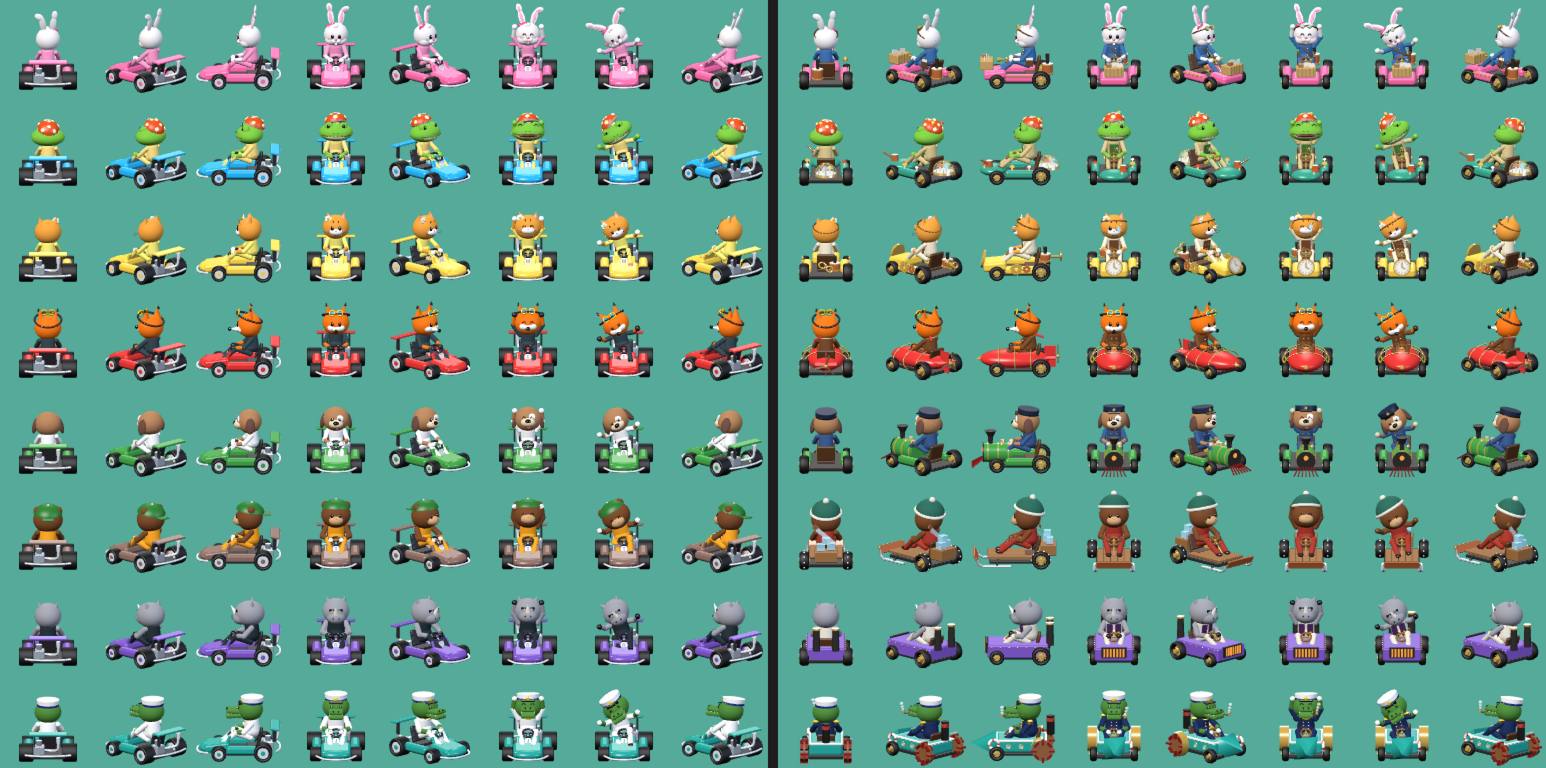
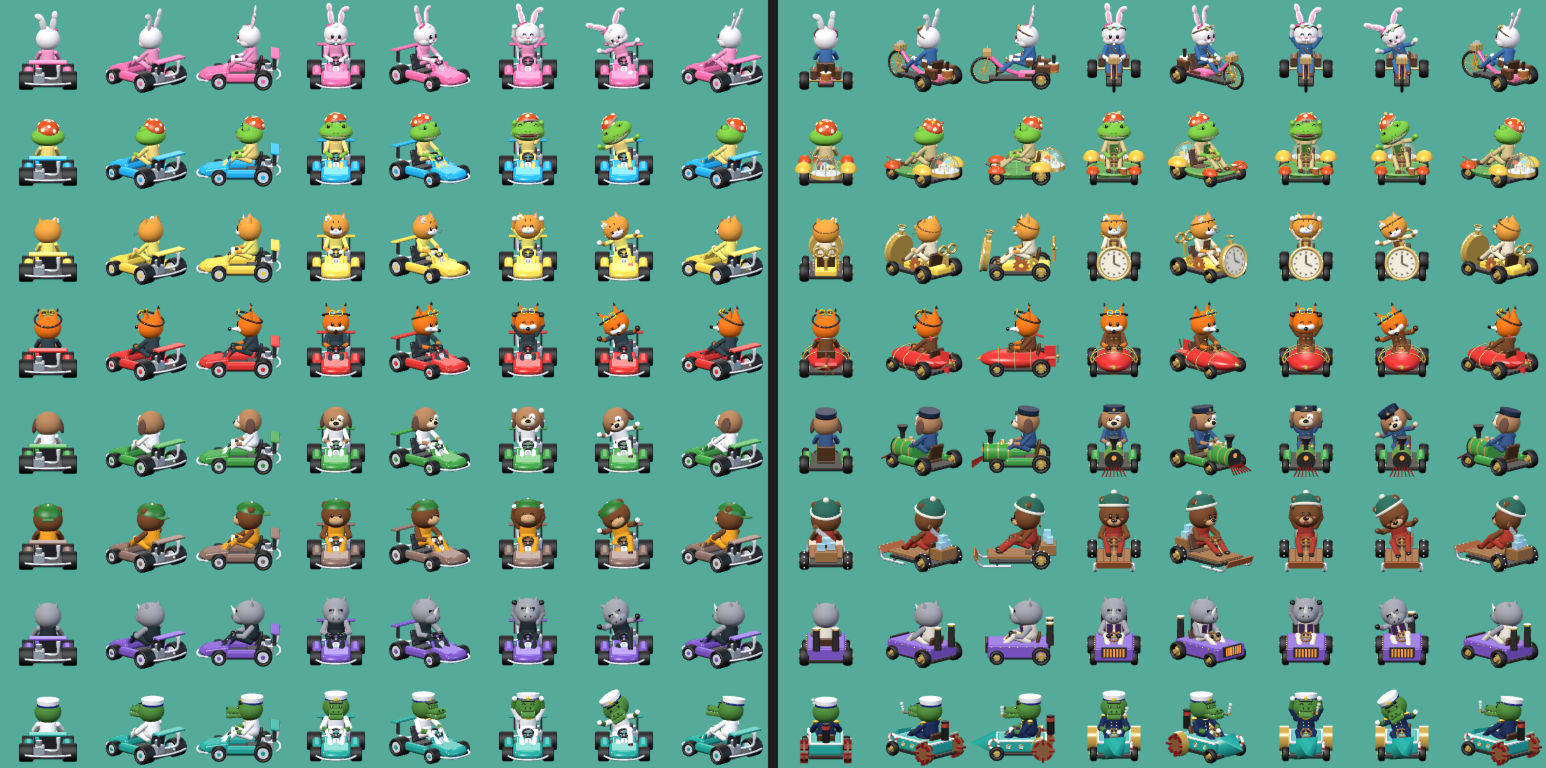
Karts da Pipoca, Tico e Mel com formatos próprios; rosto novo do Tonho
Claude-Session: https://claude.ai/code/session_014Nx7Q9PwZ2QKZdGMey8Nsp

diff --git a/js/drivers3d.js b/js/drivers3d.js
@@ -305,14 +305,33 @@ function buildHead(b, d, expr) {
     }
     case 'tonho': { // urso
       R = 0.43;
-      b.sphere(h, R, fur, [0, 0, 0], [1.08, 0.96, 0.96]);
-      for (const s of [1, -1]) { b.sphere(h, 0.13, fur, [s * 0.32, 0.3, -0.04]); b.sphere(h, 0.07, b.fur(0xd7a979), [s * 0.32, 0.3, 0.03], [1, 1, 0.5]); }
-      b.sphere(h, 0.2, b.fur(0xd7a979), surf(R * 0.8, 0, -0.28), [1.15, 0.8, 0.95]);
-      b.sphere(h, 0.075, b.plastic(0x111111, 100), surf(R * 1.02, 0, -0.14), [1.4, 0.9, 1]);
-      eyes(b, h, R, ex({ pitch: 0.12, size: 0.066 }));
-      mouth(b, h, R, ex({ pitch: -0.4, w: 0.08 }));
+      b.sphere(h, R, fur, [0, 0, 0], [1.1, 0.95, 0.95]);
+      // orelhas redondas saindo por cima do gorro
+      for (const s of [1, -1]) { b.sphere(h, 0.12, fur, [s * 0.34, 0.47, -0.04], [1, 1, 0.75]); b.sphere(h, 0.065, b.fur(0xd7a979), [s * 0.34, 0.47, 0.045], [1, 1, 0.4]); }
+      // focinho claro e arredondado, mais baixo, com nariz grande de urso em cima e boquinha embaixo
+      const tan = b.fur(0xd7a979);
+      const mz = [0, -0.14, 0.33];
+      b.sphere(h, 0.17, tan, mz, [1.25, 0.82, 0.9]);
+      b.sphere(h, 0.07, b.plastic(0x2a1a14, 110), [0, mz[1] + 0.07, mz[2] + 0.14], [1.35, 0.85, 0.9]);
+      b.sphere(h, 0.018, b.plastic(0xffffff, 10), [0.03, mz[1] + 0.105, mz[2] + 0.19], [1.4, 0.8, 0.5]);
+      b.add(h, new THREE.BoxGeometry(0.012, 0.05, 0.01), b.plastic(0x2a1a14), [0, mz[1] + 0.0, mz[2] + 0.165]);
+      if (expr === 'happy') {
+        b.sphere(h, 0.06, b.plastic(0x7a1a1a, 20), [0, mz[1] - 0.05, mz[2] + 0.13], [1.4, 0.8, 0.5]);
+        b.sphere(h, 0.035, b.plastic(0xff6f80, 20), [0, mz[1] - 0.07, mz[2] + 0.145], [1.3, 0.6, 0.4]);
+      } else if (expr === 'dizzy') {
+        b.add(h, new THREE.TorusGeometry(0.025, 0.008, 6, 12), b.plastic(0x2a1a14), [0, mz[1] - 0.06, mz[2] + 0.145]);
+      } else {
+        for (const sd of [1, -1]) b.add(h, new THREE.TorusGeometry(0.03, 0.008, 6, 12, Math.PI), b.plastic(0x2a1a14), [sd * 0.03, mz[1] - 0.03, mz[2] + 0.14], [0, 0, Math.PI]);
+      }
+      // olhos mais próximos e mais baixos, com sobrancelhas grossas e simpáticas
+      eyes(b, h, R, ex({ yaw: 0.25, pitch: 0.06, size: 0.07 }));
+      if (expr !== 'dizzy') for (const sd of [1, -1]) {
+        const br = b.add(h, new THREE.CapsuleGeometry(0.018, 0.07, 4, 8), b.fur(0x4a2a14), surf(R * 1.0, sd * 0.25, 0.27));
+        br.rotation.set(0.25, 0, Math.PI / 2 - sd * (expr === 'happy' ? 0.3 : 0.12));
+      }
+      cheeks(b, h, R * 1.05, 0xd9806a);
       // gorro de tricô com barra dobrada e pompom
-      const cap = new THREE.Group(); cap.position.set(0, 0.22, -0.05); cap.rotation.x = -0.25; h.add(cap);
+      const cap = new THREE.Group(); cap.position.set(0, 0.25, -0.06); cap.rotation.x = -0.28; h.add(cap);
       b.add(cap, new THREE.SphereGeometry(0.44, 28, 12, 0, Math.PI * 2, 0, Math.PI / 2), b.fur(L.cap), [0, 0, 0], [0, 0, 0], [1.06, 0.95, 1.06]);
       b.add(cap, new THREE.TorusGeometry(0.43, 0.055, 8, 28), b.fur(0xe8e0d0), [0, 0.02, 0], [Math.PI / 2, 0, 0], [1.06, 1.06, 1]);
       b.sphere(cap, 0.1, b.fur(0xe8e0d0), [0, 0.43, 0]);
@@ -393,11 +412,11 @@ function buildKart(b, d, root, steerAng) {
   const iron = b.plastic(0x2e2a28, 30), brass = b.metal(0xc9a24a), copper = b.metal(0xb8673a), wood = b.plastic(0x8a5a34, 15);
   const leather = b.plastic(0x5a3a22, 20), glow = b.mat('glow', () => new THREE.MeshBasicMaterial({ color: 0xffa040 }));
   const id = d.id;
-  b.rbox(root, 1.1, 0.1, 1.9, 0.04, iron, [0, 0.19, -0.05]);                              // chassi
+  b.rbox(root, id === 'pipoca' ? 0.5 : 1.1, 0.1, 1.9, 0.04, iron, [0, 0.19, -0.05]);       // chassi
   b.rbox(root, 0.56, 0.5, 0.1, 0.05, leather, [0, 0.62, -0.62], [-0.25, 0, 0]);           // banco
   b.rbox(root, 0.56, 0.08, 0.42, 0.03, leather, [0, 0.33, -0.42]);
   // volante de madeira com raios de latão
-  b.limb(root, V(0, 0.42, 0.55), V(0, 0.74, 0.26), 0.025, brass);
+  if (id !== 'pipoca') b.limb(root, V(0, 0.42, 0.55), V(0, 0.74, 0.26), 0.025, brass);
   const wheel = new THREE.Group(); wheel.position.set(0, 0.78, 0.22); wheel.rotation.x = -1.0; root.add(wheel);
   const wr = new THREE.Group(); wr.rotation.z = steerAng; wheel.add(wr);
   b.add(wr, new THREE.TorusGeometry(0.17, 0.03, 8, 24), wood);
@@ -412,7 +431,7 @@ function buildKart(b, d, root, steerAng) {
     for (let k = 0; k < 6; k++) b.add(piv, new THREE.BoxGeometry(0.03, (r - 0.08) * 2, 0.03), brass, [0, 0, 0], [(k / 6) * Math.PI, 0, 0]);
     if (id === 'tonho' && !front) for (let k = 0; k < 10; k++) { const a = (k / 10) * Math.PI * 2; b.sphere(piv, 0.03, b.metal(), [0, Math.sin(a) * r, Math.cos(a) * r]); } // pneus com cravos
   };
-  if (id !== 'tonho') for (const s of [1, -1]) wheelAt(s * 0.64, 0.66, 0.23, 0.22, 1);
+  if (id !== 'tonho' && id !== 'pipoca') for (const s of [1, -1]) wheelAt(s * 0.64, 0.66, 0.23, 0.22, 1);
   if (id !== 'juca') for (const s of [1, -1]) wheelAt(s * 0.68, -0.72, 0.29, 0.3, 0);
   const boiler = (x, z, h = 0.34, chim = 0.32) => {
     b.add(root, new THREE.CylinderGeometry(0.17, 0.17, h, 14), copper, [x, 0.38 + h / 2, z]);
@@ -422,54 +441,72 @@ function buildKart(b, d, root, steerAng) {
   const pontoons = (mat) => { for (const s of [1, -1]) b.rbox(root, 0.26, 0.24, 1.0, 0.09, mat, [s * 0.58, 0.33, -0.1]); };
 
   switch (id) {
-    case 'pipoca': { // carrinho do correio a vapor: cesto de vime com cartas e campainha
-      pontoons(paint);
-      b.rbox(root, 0.86, 0.26, 0.7, 0.1, paint, [0, 0.36, 0.72], [0.1, 0, 0]);
-      for (const s of [1, -1]) b.rbox(root, 0.03, 0.05, 1.0, 0.01, brass, [s * 0.715, 0.42, -0.1]);
+    case 'pipoca': { // velocípede do correio: roda dianteira gigante, quadro de latão e alforjes de cartas
+      const fw = new THREE.Group(); fw.position.set(0, 0.44, 1.04); fw.rotation.y = steerAng * 0.5; root.add(fw);
+      b.add(fw, new THREE.TorusGeometry(0.4, 0.045, 8, 28), tire, [0, 0, 0], [0, Math.PI / 2, 0]);
+      b.add(fw, new THREE.TorusGeometry(0.36, 0.015, 6, 28), brass, [0, 0, 0], [0, Math.PI / 2, 0]);
+      for (let k = 0; k < 8; k++) b.add(fw, new THREE.BoxGeometry(0.015, 0.72, 0.015), brass, [0, 0, 0], [(k / 8) * Math.PI, 0, 0]);
+      b.add(fw, new THREE.CylinderGeometry(0.06, 0.06, 0.16, 12), brass, [0, 0, 0], [0, 0, Math.PI / 2]);
+      for (const sd of [1, -1]) b.limb(fw, V(sd * 0.09, 0, 0), V(sd * 0.09, 0.5, -0.12), 0.022, brass);  // garfo
+      // cesto pequeno em cima da roda, com cartas
       const wicker = b.plastic(0xc8a060, 10);
-      b.rbox(root, 0.62, 0.3, 0.42, 0.04, wicker, [0, 0.66, 0.98]);
-      for (let k = -2; k <= 2; k++) b.add(root, new THREE.BoxGeometry(0.02, 0.3, 0.43), b.plastic(0x9a7a40, 10), [k * 0.12, 0.66, 0.98]);
-      for (const [x, z, r] of [[-0.12, 0.98, 0.1], [0.06, 0.92, -0.15], [0.18, 1.04, 0.2]]) b.rbox(root, 0.2, 0.14, 0.02, 0.005, b.plastic(0xf8f4ea, 10), [x, 0.86, z], [0, 0, r]);
-      b.rbox(root, 0.16, 0.12, 0.14, 0.02, b.plastic(0xa8784a, 10), [-0.16, 0.86, 1.05]);
-      b.sphere(root, 0.05, brass, [0.16, 0.86, 0.36], [1, 0.6, 1]);                      // campainha
-      b.add(root, new THREE.ConeGeometry(0.08, 0.3, 12, 1, true), brass, [-0.6, 0.62, 0.5], [-Math.PI / 2, 0, 0]); // buzina
-      boiler(0.26, -0.92);
+      b.rbox(root, 0.36, 0.2, 0.28, 0.03, wicker, [0, 1.0, 0.96]);
+      for (let k = -1; k <= 1; k++) b.add(root, new THREE.BoxGeometry(0.015, 0.2, 0.29), b.plastic(0x9a7a40, 10), [k * 0.12, 1.0, 0.96]);
+      for (const [x, r] of [[-0.06, 0.15], [0.07, -0.2]]) b.rbox(root, 0.16, 0.12, 0.015, 0.005, b.plastic(0xf8f4ea, 10), [x, 1.14, 0.96], [0, 0, r]);
+      // quadro fino pintado ligando a roda ao banco
+      b.tube(root, [V(0, 0.9, 0.9), V(0, 0.5, 0.45), V(0, 0.32, -0.1), V(0, 0.36, -0.8)], 0.07, paint);
+      b.rbox(root, 0.42, 0.2, 0.9, 0.08, paint, [0, 0.3, -0.45]);
+      for (const sd of [1, -1]) {
+        b.rbox(root, 0.2, 0.3, 0.42, 0.05, leather, [sd * 0.38, 0.52, -0.8]);                   // alforjes de cartas
+        b.rbox(root, 0.21, 0.08, 0.43, 0.03, b.plastic(0x7a4a2a, 20), [sd * 0.38, 0.66, -0.8]);
+        b.rbox(root, 0.015, 0.12, 0.18, 0.005, b.plastic(0xf8f4ea, 10), [sd * 0.38, 0.72, -0.72], [0, 0, sd * 0.15]);
+      }
+      b.sphere(root, 0.05, brass, [0.16, 0.86, 0.36], [1, 0.6, 1]);                             // campainha
+      b.add(root, new THREE.CylinderGeometry(0.035, 0.035, 1.3, 8), brass, [0, 0.29, -0.72], [0, 0, Math.PI / 2]);  // eixo traseiro
+      boiler(0, -1.12, 0.28, 0.26);
       break;
     }
-    case 'tico': { // estufa sobre rodas: redoma de vidro com cogumelos que brilham
-      pontoons(paint);
-      b.sphere(root, 0.46, paint, [0, 0.34, 0.78], [1, 0.4, 0.9]);
-      for (const [x, z, c, r] of [[0.58, 0.18, 0xffc84a, 0.08], [-0.58, 0.05, 0xe8541e, 0.07], [0.58, -0.35, 0xffffff, 0.06], [0.25, 1.05, 0xe8541e, 0.07]]) {
-        b.add(root, new THREE.CylinderGeometry(0.025, 0.03, 0.12, 8), b.fur(0xf3e5c0), [x, 0.5, z]);
-        b.add(root, new THREE.SphereGeometry(r, 12, 8, 0, Math.PI * 2, 0, Math.PI / 2), b.mat('gl' + c, () => new THREE.MeshBasicMaterial({ color: c })), [x, 0.55, z]);
+    case 'tico': { // vitória-régia sobre rodas: folha redonda, para-lamas de cogumelo e uma estufa grande atrás
+      const leaf = b.plastic(0x4f9a4a, 20);
+      b.add(root, new THREE.CylinderGeometry(0.82, 0.78, 0.1, 32, 1, false, 0.25, Math.PI * 2 - 0.5), leaf, [0, 0.3, 0.05]);
+      b.add(root, new THREE.TorusGeometry(0.8, 0.05, 6, 32, Math.PI * 2 - 0.5), b.plastic(0x7aba5a, 20), [0, 0.36, 0.05], [Math.PI / 2, 0, 0.25]);
+      for (let k = 0; k < 8; k++) b.add(root, new THREE.BoxGeometry(0.02, 0.012, 0.7), b.plastic(0x7aba5a, 20), [Math.sin((k / 8) * 6.28) * 0.38, 0.36, 0.05 + Math.cos((k / 8) * 6.28) * 0.38], [0, (k / 8) * 6.28, 0]);
+      // para-lamas: chapéus de cogumelo pintados sobre as quatro rodas
+      for (const [x, z, r, c] of [[0.66, 0.66, 0.28, 0xe8541e], [-0.66, 0.66, 0.28, 0xe8541e], [0.7, -0.72, 0.36, 0xffc84a], [-0.7, -0.72, 0.36, 0xffc84a]]) {
+        b.add(root, new THREE.SphereGeometry(r, 18, 10, 0, Math.PI * 2, 0, Math.PI / 2), b.plastic(c, 40), [x, r + 0.12, z], [0, 0, 0], [0.75, 0.75, 1]);
+        for (const [yy, zz] of [[0.6, 0.4], [0.75, -0.3], [0.3, 0.75]]) b.sphere(root, r * 0.16, b.plastic(0xfff3c4, 30), [x + Math.sign(x) * r * 0.5 * 0.75 * Math.cos(yy), r + 0.12 + r * 0.75 * Math.sin(yy), z + zz * r * 0.6], [1, 1, 0.5]);
       }
-      // redoma de estufa atrás do banco
-      b.add(root, new THREE.CylinderGeometry(0.32, 0.34, 0.08, 18), brass, [0, 0.42, -0.95]);
-      for (const [x, z, c] of [[0.1, -0.9, 0xe8541e], [-0.12, -1.0, 0xffc84a], [0.02, -1.08, 0x8ad8ff]]) {
-        b.add(root, new THREE.CylinderGeometry(0.03, 0.035, 0.18, 8), b.fur(0xf3e5c0), [x, 0.54, z]);
-        b.add(root, new THREE.SphereGeometry(0.09, 12, 8, 0, Math.PI * 2, 0, Math.PI / 2), b.mat('gl' + c, () => new THREE.MeshBasicMaterial({ color: c })), [x, 0.62, z]);
+      // estufa grande atrás do banco
+      b.add(root, new THREE.CylinderGeometry(0.46, 0.48, 0.12, 20), brass, [0, 0.42, -1.0]);
+      for (const [x, z, c, hh] of [[0.15, -0.92, 0xe8541e, 0.24], [-0.17, -1.05, 0xffc84a, 0.18], [0.04, -1.18, 0x8ad8ff, 0.3], [-0.05, -0.85, 0xffffff, 0.14]]) {
+        b.add(root, new THREE.CylinderGeometry(0.03, 0.04, hh, 8), b.fur(0xf3e5c0), [x, 0.48 + hh / 2, z]);
+        b.add(root, new THREE.SphereGeometry(0.1, 12, 8, 0, Math.PI * 2, 0, Math.PI / 2), b.mat('gl' + c, () => new THREE.MeshBasicMaterial({ color: c })), [x, 0.48 + hh, z]);
       }
-      b.add(root, new THREE.SphereGeometry(0.33, 18, 12, 0, Math.PI * 2, 0, Math.PI / 2), b.mat('glass', () => new THREE.MeshPhongMaterial({ color: 0xcfefff, transparent: true, opacity: 0.35, shininess: 150, specular: 0xffffff })), [0, 0.45, -0.95]);
-      for (let k = 0; k < 4; k++) b.add(root, new THREE.TorusGeometry(0.33, 0.012, 4, 18, Math.PI), brass, [0, 0.45, -0.95], [0, (k / 4) * Math.PI, 0]);
+      b.add(root, new THREE.SphereGeometry(0.46, 20, 14, 0, Math.PI * 2, 0, Math.PI / 2), b.mat('glass', () => new THREE.MeshPhongMaterial({ color: 0xcfefff, transparent: true, opacity: 0.32, shininess: 150, specular: 0xffffff })), [0, 0.48, -1.0], [0, 0, 0], [1, 1.15, 1]);
+      for (let k = 0; k < 4; k++) b.add(root, new THREE.TorusGeometry(0.46, 0.012, 4, 20, Math.PI), brass, [0, 0.48, -1.0], [0, (k / 4) * Math.PI, 0], [1, 1.15, 1]);
+      b.sphere(root, 0.05, brass, [0, 1.02, -1.0]);
       // regador de cobre na frente
-      b.add(root, new THREE.CylinderGeometry(0.1, 0.12, 0.2, 12), copper, [0.3, 0.6, 0.9]);
-      b.limb(root, V(0.38, 0.62, 0.95), V(0.55, 0.78, 1.15), 0.025, copper);
+      b.add(root, new THREE.CylinderGeometry(0.1, 0.12, 0.2, 12), copper, [0.3, 0.46, 0.75]);
+      b.limb(root, V(0.38, 0.5, 0.8), V(0.52, 0.66, 1.0), 0.025, copper);
       break;
     }
-    case 'mel': { // kart de corda: mostrador de relógio no bico, engrenagens à mostra e chave de dar corda
-      pontoons(paint);
-      b.rbox(root, 0.86, 0.3, 0.72, 0.1, paint, [0, 0.38, 0.72], [0.1, 0, 0]);
-      b.add(root, new THREE.CylinderGeometry(0.28, 0.28, 0.08, 24), brass, [0, 0.55, 1.08], [Math.PI / 2 - 0.2, 0, 0]);
-      b.add(root, new THREE.CircleGeometry(0.24, 24), new THREE.MeshPhongMaterial({ map: clockFace(), shininess: 40 }), [0, 0.56, 1.125], [-0.2, 0, 0]);
-      for (const s of [1, -1]) {
-        const g1 = b.add(root, gearGeo(0.2, 10), brass, [s * 0.73, 0.4, 0.05], [0, Math.PI / 2, 0.3]);
-        const g2 = b.add(root, gearGeo(0.13, 8), copper, [s * 0.73, 0.4, -0.27], [0, Math.PI / 2, 0]);
-        void g1; void g2;
+    case 'mel': { // relógio de bolso gigante: caixa de latão em pé na frente, coroa em cima e chave de corda enorme atrás
+      b.rbox(root, 0.7, 0.24, 1.5, 0.08, paint, [0, 0.32, -0.25]);
+      const watch = new THREE.Group(); watch.position.set(0, 0.66, 1.0); watch.rotation.x = -0.15; root.add(watch);
+      b.add(watch, new THREE.CylinderGeometry(0.5, 0.5, 0.2, 32), brass, [0, 0, 0], [Math.PI / 2, 0, 0]);
+      b.add(watch, new THREE.TorusGeometry(0.5, 0.05, 8, 32), b.metal(0xe0c070), [0, 0, 0.1]);
+      b.add(watch, new THREE.CircleGeometry(0.44, 32), new THREE.MeshPhongMaterial({ map: clockFace(), shininess: 40 }), [0, 0, 0.105]);
+      b.add(watch, new THREE.CylinderGeometry(0.06, 0.06, 0.12, 12), brass, [0, 0.56, 0]);        // coroa
+      b.add(watch, new THREE.CylinderGeometry(0.09, 0.09, 0.06, 14), brass, [0, 0.64, 0]);
+      b.add(watch, new THREE.TorusGeometry(0.12, 0.025, 6, 16), brass, [0, 0.78, 0], [Math.PI / 2, 0, 0]);
+      for (const sd of [1, -1]) {
+        b.add(root, gearGeo(0.26, 12), copper, [sd * 0.39, 0.42, -0.1], [0, Math.PI / 2, 0]);
+        b.add(root, gearGeo(0.16, 9), brass, [sd * 0.39, 0.5, -0.5], [0, Math.PI / 2, 0.2]);
       }
-      const key = new THREE.Group(); key.position.set(0, 0.62, -1.08); key.rotation.z = 0.5; root.add(key);
-      b.add(key, new THREE.CylinderGeometry(0.035, 0.035, 0.3, 8), brass, [0, 0, -0.1], [Math.PI / 2, 0, 0]);
-      for (const s of [1, -1]) b.add(key, new THREE.TorusGeometry(0.11, 0.035, 8, 16), brass, [s * 0.13, 0, -0.26], [0, 0, 0], [1, 0.8, 1]);
-      boiler(-0.28, -0.85, 0.26, 0.22);
+      const key = new THREE.Group(); key.position.set(0, 0.75, -1.12); root.add(key);
+      b.add(key, new THREE.CylinderGeometry(0.05, 0.05, 0.36, 8), brass, [0, -0.1, 0]);
+      b.add(key, new THREE.CylinderGeometry(0.09, 0.09, 0.08, 10), brass, [0, 0.1, 0]);
+      for (const sd of [1, -1]) b.add(key, new THREE.TorusGeometry(0.17, 0.05, 8, 18), brass, [sd * 0.2, 0.3, 0], [0, 0, 0], [1, 0.8, 1]);
       break;
     }
     case 'faisca': { // mini-dirigível sobre rodas: casco de charuto, lemes e hélice

diff --git a/docs/pilotos/README.md b/docs/pilotos/README.md
@@ -18,13 +18,14 @@ Linhas: Pipoca, Tico, Mel, Faísca, Bento, Tonho, Rino e Juca.
 | `comparativo-v3-v4.png` | Pipoca e Tico na v3 (em cima) e na v4 (embaixo) |
 | `v5-identidades.png` | Quinta versão: cada piloto com um papel no mundo steampunk e um kart combinando (ver abaixo) |
 | `comparativo-v4-v5.png` | v4 à esquerda, v5 à direita |
+| `v5-tonho-rosto.png` | Rosto novo do Tonho: focinho mais baixo com nariz grande, boquinha, sobrancelhas, bochechas e orelhas saindo do gorro |
 
 ## Identidades (v5)
 | Piloto | Papel | Roupa e acessórios | Kart |
 |---|---|---|---|
-| Pipoca | Mensageira do correio a vapor | Jaqueta azul do correio com botões de latão, bolsa de cartas a tiracolo, óculos de aviadora | Carrinho do correio: cesto de vime com cartas e pacote, campainha, buzina de latão |
-| Tico | Botânico do Brejo, cultiva os cogumelos que brilham | Chapéu de cogumelo com lamelas, anel e dois cogumelinhos brotando; avental verde com lupa e muda no bolso | Estufa sobre rodas: redoma de vidro com cogumelos, cogumelos luminosos nos para-lamas, regador de cobre |
-| Mel | Relojoeira | Tiara de couro com lupa de joalheiro sobre o olho, avental de couro com ferramentas | Kart de corda: mostrador de relógio no bico, engrenagens à mostra, chave de dar corda |
+| Pipoca | Mensageira do correio a vapor | Jaqueta azul do correio com botões de latão, bolsa de cartas a tiracolo, óculos de aviadora | Velocípede do correio: roda dianteira gigante raiada, quadro fino, cesto com cartas, alforjes, campainha |
+| Tico | Botânico do Brejo, cultiva os cogumelos que brilham | Chapéu de cogumelo com lamelas, anel e dois cogumelinhos brotando; avental verde com lupa e muda no bolso | Vitória-régia sobre rodas: folha redonda, para-lamas de chapéu de cogumelo, estufa grande de vidro atrás, regador de cobre |
+| Mel | Relojoeira | Tiara de couro com lupa de joalheiro sobre o olho, avental de couro com ferramentas | Relógio de bolso gigante em pé na frente, engrenagens nas laterais e chave de corda enorme atrás |
 | Faísca | Piloto de dirigível | Jaqueta de couro com gola de lã, cachecol voando, óculos | Mini-dirigível: casco de charuto com cintas de latão, lemes e hélice de madeira |
 | Bento | Foguista da ferrovia | Quepe com distintivo, macacão azul com fuligem, lenço vermelho | Locomotiva: caldeira deitada, chaminé de funil, farol, sino e limpa-trilhos |
 | Tonho | Cortador de gelo da serra | Gorro de tricô com pompom, camisa xadrez, suspensórios, serrote nas costas | Trenó de gelo: esquis na frente, lâmina de neve, caixote com blocos de gelo, pneus com cravos |
